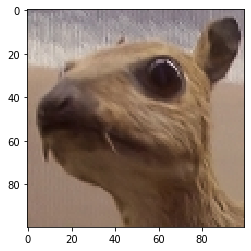
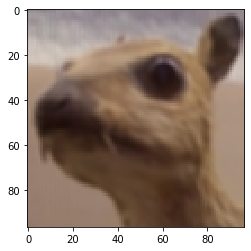
finished content, probably errors

diff --git a/_posts/2020-02-15-kernel-image.md b/_posts/2020-02-15-kernel-image.md
@@ -67,21 +67,25 @@ import matplotlib.pyplot as plt
 With `matplotlib` we will read images locally or from the internet and then show them.
 
 ```python
-animal = imread('https://upload.wikimedia.org/wikipedia/commons/5/50/Vd-Orig.png')
+animal = imread('animal_99')
+# image source: https://upload.wikimedia.org/wikipedia/commons/5/50/Vd-Orig.png
 plt.imshow(animal)
 ```
 
-<img src="/images/output1.png">
+<img src="/images/output1.png" alt="output">
 
 `imread(...)` outputs an NumPy array that contains all pixels of the image.   
 How big is this image?
 
 ```python
 animal.shape
-# (100, 100, 3)
+# (99, 99, 3)
 ```
 
-The output tells us that the image is 100 pixel wide, 100 pixel long. The 3 shows us the **3rd** dimension - the color dimension. The image is not a black/white image. Each pixel contains information about the three color channels **red**, **green**, **blue**. For a black/white images the output of the shape would be simply `(100, 100)`.  
+The output tells us that the image is 99 pixel wide, 99 pixel long. The 3 shows us the **3rd** dimension - the color dimension. The image is not a black/white image. Each pixel contains information about the three color channels **red**, **green**, **blue**. For a black/white images the output of the shape would be simply `(99, 99)`.  
+
+There is a small difference between the `animal_99.png` and the original image from the wikipedia article: the original has a size of 100x100, with kernels of the size 3x3 that image would only allow us to use a stride of 1 or 97, with a 99x99 image we have more options like 1, 2, 3, 4, 6, 8, 12, etc.  
+
 We can also look at each pixel seperately. This is the pixel in the top left corner.
 
 ```python
@@ -94,13 +98,13 @@ The colors in the channel can be expressed either on the scale from 0 to 255, wh
 Our kernels are also NumPy arrays.
 
 ```python
-kernel_blur = np.ones((3,3))*(1/9)
+kernel_blur = np.ones((3,3)) * (1/9)
 kernel_blur
 # array([[0.11111111, 0.11111111, 0.11111111],
 #       [0.11111111, 0.11111111, 0.11111111],
 #       [0.11111111, 0.11111111, 0.11111111]])
 ```
-
+`np.ones()` return a array full of ones, the tupel (3,3) gives the array the width of 3 and the length of 3.
 This might help you to understand how a kernel can blur a image. Every single pixel in the final output is a combination of the 9 pixels from the input image that are covered by the kernel matrix. Look back at the first image in the blog post. Using 'kernel_blur' the green number in the output matrix will be equal to 6 * 1/9 = 0.66. In the red square you can clearly identify where the ones and zeros are, after the blurring kernel all you see is a 0.66. The input is blurred.
 
 Now we should be able to write the code for the formula that shows us first the size of the output matrix and by this also if the kernel fits the input image without padding. The functions needs to know the image, the kernel and the stride that we choose. Then you can simply hardcode the formula as given. In the last line we also check if both, the width *x* and length *y* are integers. For further functions we will also need the output sizes.
@@ -121,25 +125,179 @@ def conv(image, kernel, stride):
     # check if kernel fits image without padding
     if kernel_fits(image, kernel, stride)[2]:
         # create output array, here 3d
-        output = np.zeros((int(kernel_fits(image, kernel, 1)[0]), int(kernel_fits(image, kernel, 1)[1]), 3))
+        output = np.zeros((int(kernel_fits(image, kernel, stride)[0]), int(kernel_fits(image, kernel, stride)[1]), 3))
     else:
         print("Kernel does not fit image without padding")
 ```
 
-`np.zeros` returns a multidimensional array ful of zeros, the argument is a tuble with the sizes of the dimensions `(width, length, depth)`. Width and length are obviously the outputs of the formula that we use and depth is the number of the color channels - 3. As the function takes only integers as input we prepare them with `int()`.
+`np.zeros()`, similar to `np.ones()`, returns a multidimensional array full of zeros, the argument is a tuble with the sizes of the dimensions `(width, length, depth)`. Width and length are obviously the outputs of the formula that we use and depth is the number of the color channels - 3. As the function takes only integers as input we prepare them with `int()`.
 
-The hard part lies ahead of us. Let`s simplify the idea and compute only the first value of the output matrix.
+The hard part lies ahead of us. Let's simplify the idea and compute only the first value of the output matrix.
 
 ```python
 output[0, 0, 0] = np.sum(image[0:3, 0:3, 0] * kernel)
 ```
 
-`image[0:3, 0:3, 0] * kernel` multiplies the input with kernel, `np.sum` creates a sum of all the values. Now let's move the kernel to the right.
+`image[0:3, 0:3, 0] * kernel` multiplies the input with the kernel, `np.sum()` creates a sum of all the values. Now let's move the kernel to the right. The *3* comes from the kernel size.
 
 ```python
 output[1, 0, 0] = np.sum(image[1:4, 1:4, 0] * kernel)
 ```
-In the output matrix we go one step to the right
+
+How exactly does movement work, `output` moves always one-step wise, the kernel's movement depends on `stride`. We need to generelize the functions, not every kernel has the size 3x3 and `stride` is not fixed.
+
+```python
+def conv(image, kernel, stride):
+
+    # check if kernel fits image without padding
+    if kernel_fits(image, kernel, stride)[2]:
+
+        # create output array, here 3d
+        output = np.zeros((int(kernel_fits(image, kernel, stride)[0]), int(kernel_fits(image, kernel, stride)[1]), 3))
+
+        # starting points of process
+        output_x = 0
+        output_y = 0
+        start_x = 0
+        start_y = 0
+        end_x = kernel.shape[0]
+        end_y = kernel.shape[1]
+        stride_x = stride
+        stride_y = stride
+
+        output[output_x, output_y, 0] = np.sum(image[start_x:end_x, start_y:end_y, 0] * kernel)
+```
+
+`output_x` and `output_y` are the positions of the output. The kernel has also a position, as we start from the top left corner we set the kernel top left corner to 0 and 0.
+
+Now we can make a loop that moves the kernel horizontally.
+
+```python
+# loop over x-dimension (horizontal)
+while end_x <= image.shape[0]:
+
+    # add kernel sum to output
+    output[output_x, output_y, 0] = np.sum(image[start_x:end_x, start_y:end_y, 0] * kernel)
+
+    # move kernel horizontally
+    output_x += 1
+    start_x += stride_x
+    end_x += stride_x
+```
+
+The loop moves the kernel to the right edge, after the output is computed we move the output to the next position by a step and the kernel by `stride_x`.
+
+What do we do after the loop is finished. We have to move the kernel vertically and start over again. This is done is a second loop.
+
+```python
+# loop over y-dimension (vertical)
+while end_y <= image.shape[1]
+
+    # ... previous loop
+
+    # reset hozintal movement
+        output_x = 0
+        start_x = 0
+        end_x = kernel.shape[0]
+
+    # move kernel vertically
+        output_y += 1
+        start_y += stride_y
+        end_y += stride_y
+```
+We reset all horinzontal positions but go vertically down.
+
+After this loop is done, the kernel has moved from the top left corner to the bottom right corner of the image. Are we done? Not yet what about the depth of the image? The image has three color-channels.
+
+In my first draft I created another loop for the third dimension. The better solution is probably to compute all three color channels at the same time.
+
+```python
+# add kernel sum to output
+output[output_x, output_y, 0] = np.sum(image[start_x:end_x, start_y:end_y, 0] * kernel)
+output[output_x, output_y, 1] = np.sum(image[start_x:end_x, start_y:end_y, 1] * kernel)
+output[output_x, output_y, 2] = np.sum(image[start_x:end_x, start_y:end_y, 2] * kernel)
+```
+
+The last missing part is the return of the `output`.
+
+Here is now the complete function:
+
+```python
+def conv(image, kernel, stride):
+
+    # check if kernel fits image without padding
+    if kernel_fits(image, kernel, stride)[2]:
+
+        # create output array, here 3d
+        output = np.zeros((int(kernel_fits(image, kernel, stride)[0]), int(kernel_fits(image, kernel, stride)[1]), 3))
+
+        # starting points of process
+        output_x = 0
+        output_y = 0
+        start_x = 0
+        start_y = 0
+        end_x = kernel.shape[0]
+        end_y = kernel.shape[1]
+        stride_x = stride
+        stride_y = stride
+
+        # loop over y-dimension (vertical)
+        while end_y <= image.shape[1]:
+
+            # loop over x-dimension (horizontal)
+            while end_x <= image.shape[0]:
+
+                # add kernel sum to output
+                output[output_x, output_y, 0] = np.sum(image[start_x:end_x, start_y:end_y, 0] * kernel)
+                output[output_x, output_y, 1] = np.sum(image[start_x:end_x, start_y:end_y, 1] * kernel)
+                output[output_x, output_y, 2] = np.sum(image[start_x:end_x, start_y:end_y, 2] * kernel)
+
+                # move kernel horizontally
+                output_x += 1
+                start_x += stride_x
+                end_x += stride_x
+
+            # reset hozintal movement
+            output_x = 0
+            start_x = 0
+            end_x = kernel.shape[0]
+
+            # move kernel vertically
+            output_y += 1
+            start_y += stride_y
+            end_y += stride_y
+
+        return output
+
+    else:
+        print("Kernel does not fit image without padding")
+```
+
+Additionally we can create more kernels:
+```python
+kernel_sharp = np.array([[0, -1, 0],
+                 [-1, 5, -1],
+                 [0, -1, 0]])
+
+kernel_edge = np.array([[-1, -1, -1],
+                  [-1, 8, -1],
+                  [-1, -1, -1]])
+```
+
+We can now apply any kernel or any image. Let's stay with the animal image as we can verify the output with the wikipedia page.
+
+```python
+plt.imshow(conv(animal, kernel_sharp, 1))
+```
+<img src="/images/output2.png" alt="output2">
+
+As promised we can also increase `stride`.
+
+```python
+plt.imshow(conv(animal, kernel_blur, 8))
+```
+<img src="/images/output2.png" alt="output2">
+
 
 ## Trash
 
